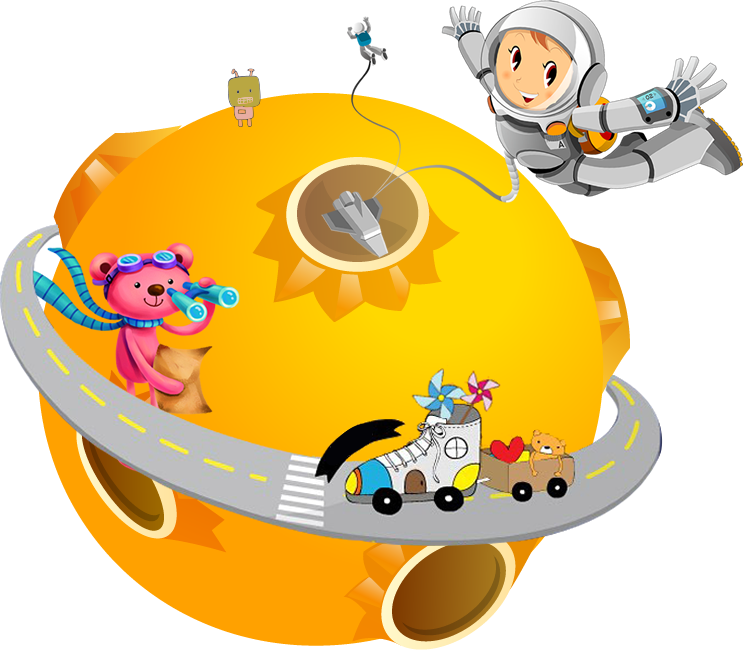
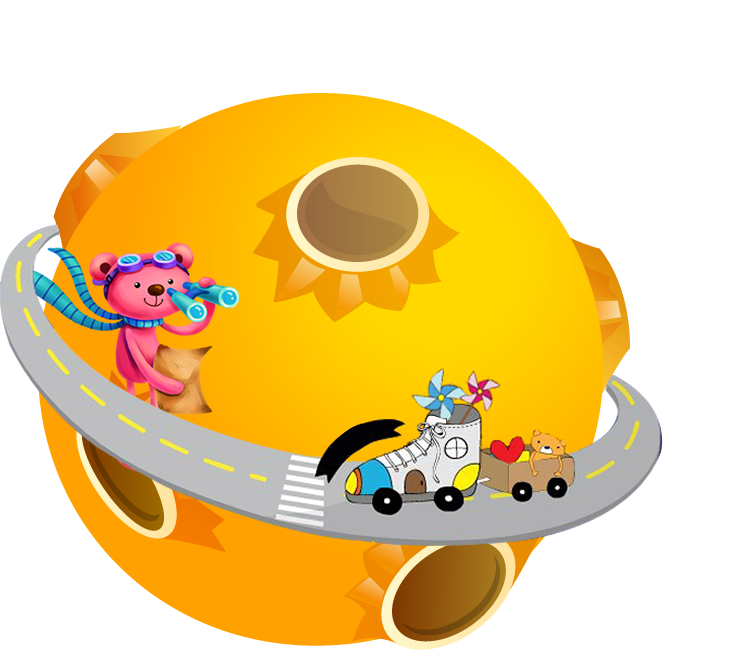
效果修正

diff --git a/app/index.html b/app/index.html
@@ -6,6 +6,8 @@
     <title>mengdongfang</title>
     <meta name="description" content="">
     <meta name="viewport" content="width=device-width">
+    <meta name="renderer" content="webkit">
+    <meta http-equiv="X-UA-Compatible" content="IE=Edge" />
     <link rel="shortcut icon" href="/favicon.ico">
     <!-- Place favicon.ico and apple-touch-icon.png in the root directory -->
     <!-- build:css(.) styles/vendor.css -->
@@ -48,6 +50,7 @@
                 <img class="floating floating-7 floating-up-and-down" src="images/pic07.png"></img>
                 <img class="floating floating-8" src="images/pic08.png"></img>
                 <img class="floating floating-9" src="images/pic09.png"></img>
+                <img class="floating floating-astronaut" src="images/pic17.png"></img>
             </div>
         </div>
         <div class="slide slide-2">
@@ -63,8 +66,10 @@
         </div>
         <div class="slide slide-3">
             <img class="logo" src="images/logo02.png" />
-            <video autoplay="autoplay" loop="loop">
-                <source src="http://caseshow-demo.stor.sinaapp.com/1.mp4" type="video/mp4" />aaaa
+            <video id="bg-video" loop="loop">
+                <!-- <source src="images/1.mp4" type="video/mp4" />
+                <source src="images/2.mp4" type="video/mp4" /> -->
+                <source src="http://caseshow-demo.stor.sinaapp.com/2.mp4" type="video/mp4" />
             </video>
             <div class="pic-wrap">
                 <div class="pic"></div>
@@ -231,10 +236,15 @@
                 if (index != 0) {
                     resetSlide1();
                 }
+                if (index != 1) {
+                    resetSlide2();
+                }
+                if (index != 2) {
+                    resetSlide3();
+                }
             }
 
             function resetSlide1() {
-                console.log(1);
                 $('.slide-1 .floating-2').velocity({
                     scale: 0,
                     translateY: 0,
@@ -242,12 +252,36 @@
                 }, {
                     duration: 0
                 });
-                $('.slide-1 .floating').not('.floating-2').velocity({
+
+                $('.floating-astronaut').velocity('stop', true);
+                $('.slide-1 .floating-astronaut').velocity({
+                    opacity: 0,
+                    scale: 1,
                     translateY: 0,
-                    translateZ: 0
+                    translateZ: 0,
+                    rotateZ: 0
                 }, {
                     duration: 0
                 });
+
+            }
+
+            function resetSlide2() {
+                $('.slide-2 .floating-10').velocity({
+                    scale: 0,
+                    opacity: 0
+                }, {
+                    duration: 0,
+                });
+
+                $('.slide-2 .floating-11').hide();
+                $('.slide-2 .floating-12, .slide-2 .floating-13').velocity('transition.slideDownOut', {
+                    duration: 0
+                });
+            }
+
+            function resetSlide3() {
+                $('#bg-video')[0].pause();
             }
 
             //分屏滚动初始化
@@ -260,29 +294,74 @@
                     reset(index);
                     switch (index) {
                         case 0:
-                            // $('.slide-1 .floating').not('.floating-2').velocity('stop', true);
-                            // $('.slide-1 .floating').velocity({
-                            //     scale: 1,
-                            //     translateY: 0,
-                            //     translateZ: 0
-                            // }, {
-                            //     complete: function() {
-                            //         $('.floating-up-and-down').each(function(i, data) {
-                            //             $(this).velocity({
-                            //                 translateY: _.random(20, 20) + 'px',
-                            //                 rotateZ: _.random(-10, 10) + 'deg'
-                            //             }, {
-                            //                 loop: true,
-                            //                 duration: 2000,
-                            //                 delay: _.random(500, 1000)
-                            //             });
-
-                            //         });
-                            //     }
-                            // });
-
-
-
+                            break;
+                        case 1:
+                            break;
+                    }
+                    if (index === 3) {
+                        $(".slide-4 .content-wrap").velocity({
+                            scale: 1,
+                            translateZ: 0
+                        });
+                        $(".slide-4 .nav li")
+                            .velocity("transition.slideUpIn", {
+                                stagger: 250
+                            })
+                            .delay(750);
+                    }
+                },
+                beforeSlide: function(index) {
+                    index = Number(index);
+                    $('.side-nav li').removeClass('active');
+                    $('.side-nav li').eq(index).addClass('active');
+                    directivePos($('.side-nav li').eq(index));
+                    switch (index) {
+                        case 0:
+                            resetSlide1();
+                            $('.slide-1 .floating-2').velocity({
+                                opacity: 1,
+                                scale: 1,
+                                translateY: 0,
+                                translateZ: 0
+                            }, {
+                                delay: 500,
+                                complete: function() {
+                                    $('.floating-up-and-down').each(function(i, data) {
+                                        $(this).velocity('stop', true);
+                                        $(this).velocity({
+                                            translateY: -10
+                                        }, {
+                                            complete: function() {
+                                                $(this).velocity('stop');
+                                                $(this).velocity({
+                                                    translateY: _.random(10, 10) + 'px',
+                                                    rotateZ: _.random(-10, 10) + 'deg'
+                                                }, {
+                                                    loop: true,
+                                                    duration: 2000,
+                                                    delay: _.random(500, 1000)
+                                                });
+                                            }
+                                        });
+                                    });
+                                    $('.floating-astronaut').velocity('stop', true);
+                                    $('.floating-astronaut').velocity({
+                                        opacity: 1,
+                                        scale: 1
+                                    }, {
+                                        complete: function() {
+                                            $('.floating-astronaut').velocity('stop');
+                                            $('.floating-astronaut').velocity({
+                                                rotateZ: _.random(10, 10) + 'deg'
+                                            }, {
+                                                loop: true,
+                                                duration: 2000,
+                                                delay: _.random(500, 1000)
+                                            });
+                                        }
+                                    });
+                                }
+                            });
                             break;
                         case 1:
                             $('.slide-2 .floating-10').velocity({
@@ -290,6 +369,7 @@
                                 opacity: 1,
                                 translateZ: 0
                             }, {
+                                delay: 750,
                                 complete: function() {
                                     // $('.slide-2 .floating-11').velocity('finish');
 
@@ -336,62 +416,8 @@
                                 }
                             });
                             break;
-                    }
-                    if (index === 3) {
-
-                        $(".slide-4 .content-wrap").velocity({
-                            scale: 1,
-                            translateZ: 0
-                        });
-                        $(".slide-4 .nav li")
-                            .velocity("transition.slideUpIn", {
-                                stagger: 250
-                            })
-                            .delay(750);
-                    }
-
-                },
-                beforeSlide: function(index) {
-                    $('.side-nav li').removeClass('active');
-                    $('.side-nav li').eq(index).addClass('active');
-                    directivePos($('.side-nav li').eq(index));
-                    switch (index) {
-                        case 0:
-                            $('.slide-1 .floating-2').velocity({
-                                opacity: 1,
-                                scale: 1,
-                                translateY: 0,
-                                translateZ: 0
-                            }, {
-                                delay: 500,
-                                complete: function() {
-                                    $('.floating-up-and-down').each(function(i, data) {
-                                        $(this).velocity('stop');
-                                        $(this).velocity({
-                                            translateY: _.random(20, 20) + 'px',
-                                            rotateZ: _.random(-10, 10) + 'deg'
-                                        }, {
-                                            loop: true,
-                                            duration: 2000,
-                                            delay: _.random(500, 1000)
-                                        });
-
-                                    });
-                                }
-                            });
-                            break;
-                        case 1:
-                            $('.slide-2 .floating-10').velocity({
-                                scale: 0,
-                                opacity: 0
-                            }, {
-                                duration: 0,
-                            });
-
-                            $('.slide-2 .floating-11').hide();
-                            $('.slide-2 .floating-12, .slide-2 .floating-13').velocity('transition.slideDownOut', {
-                                duration: 0
-                            });
+                        case 2: 
+                            $('#bg-video')[0].play();
                             break;
                         case 3:
                             $(".slide-4 .content-wrap").velocity({
@@ -415,7 +441,7 @@
                 arrowKeyEvents: true,
                 pagination: false,
                 nthClasses: false,
-                detectHash: true
+                detectHash: false
             });
 
 
@@ -424,24 +450,27 @@
             //slider.slideToIndex( index );
             //slider.unbind();
             //slider.rebind();
-            // slider.slideToIndex(0);
+            if (!window.location.hash) {
+                slider.slideToIndex(0);
+            }
+
             $('.side-nav a').on('click', function(e) {
                 e.preventDefault();
                 var nextPage = $(this).attr('href');
                 slider.slideToIndex(nextPage);
             });
 
-            $('.floating-up-and-down').each(function(i, data) {
-                $(this).velocity({
-                    translateY: _.random(20, 20) + 'px',
-                    rotateZ: _.random(-10, 10) + 'deg'
-                }, {
-                    loop: true,
-                    duration: 2000,
-                    delay: _.random(500, 1000)
-                });
+            // $('.floating-up-and-down').each(function(i, data) {
+            //     $(this).velocity({
+            //         translateY: _.random(20, 20) + 'px',
+            //         rotateZ: _.random(-10, 10) + 'deg'
+            //     }, {
+            //         loop: true,
+            //         duration: 2000,
+            //         delay: _.random(500, 1000)
+            //     });
 
-            });
+            // });
 
             var lastContent = null;
             $('.slide-4 .nav li a').on('click', function(e) {

diff --git a/app/styles/main.scss b/app/styles/main.scss
@@ -155,7 +155,7 @@ body {
         }
         &.floating-5 {
             @include middle-and-center(99px, 60px);
-            transition-property: margin, z-index;
+            transition-property: margin, z-index, opacity;
             transition-duration: 1.5s;
             transition-delay: 1s;
             z-index: 0;
@@ -185,6 +185,17 @@ body {
             transition-delay: 1s;
             transform: translate3d(0px, 0px, 0px) scale(1);
         }
+        &.floating-astronaut {
+            @include middle-and-center(422px, 258px);
+            transition-property: margin, z-index;
+            transition-duration: 1.7s;
+            transition-delay: 1s;
+            transform: translate3d(0px, 0px, 0px) scale(1);
+            z-index: 10;
+            transform-origin: 40px 220px;
+            margin-left: -56px;
+                margin-top: -330px;
+        }
     }
     &.active-slide {
         .floating {
@@ -194,7 +205,6 @@ body {
                 margin-top: -70px;
             }
             &.floating-2 {
-                transform: scale(1);
             }
             &.floating-3 {
                 margin-left: -452px;
@@ -224,6 +234,11 @@ body {
             &.floating-9 {
                 margin-left: -250px;
                 margin-top: -250px;
+            }
+            &.floating-astronaut {
+                margin-left: -56px;
+                margin-top: -330px;
+                // z-index: 15;
             }
         }
     }
